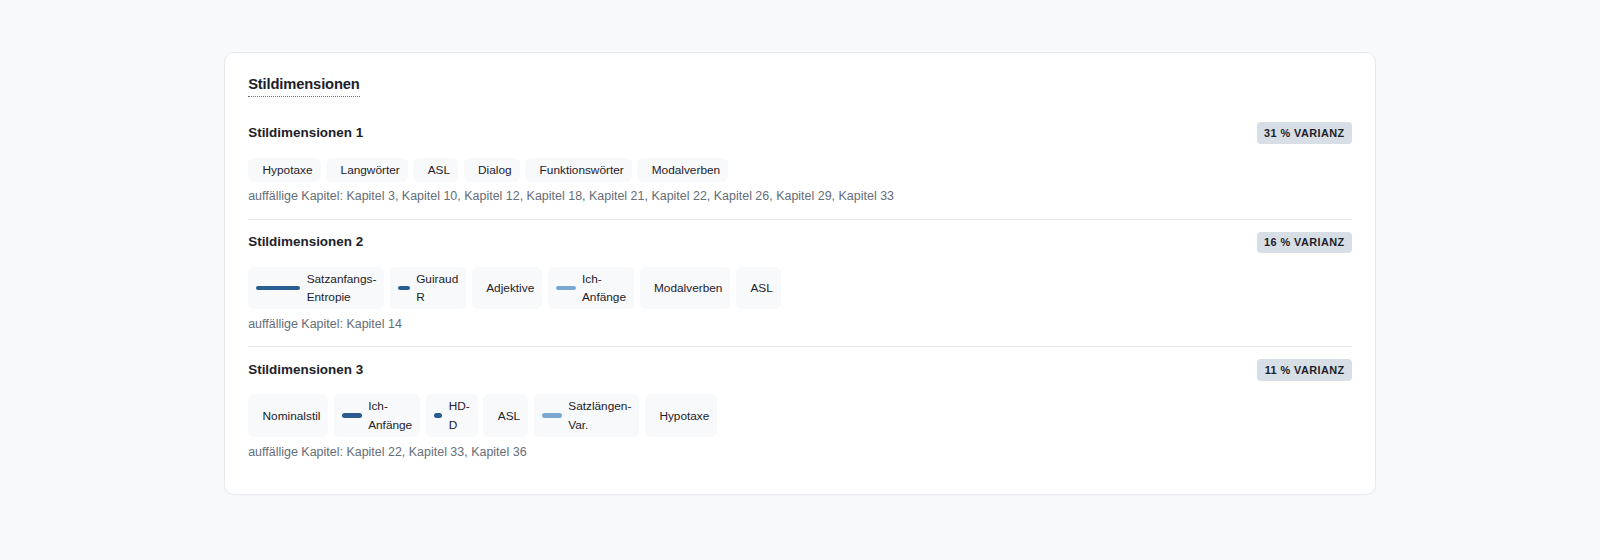
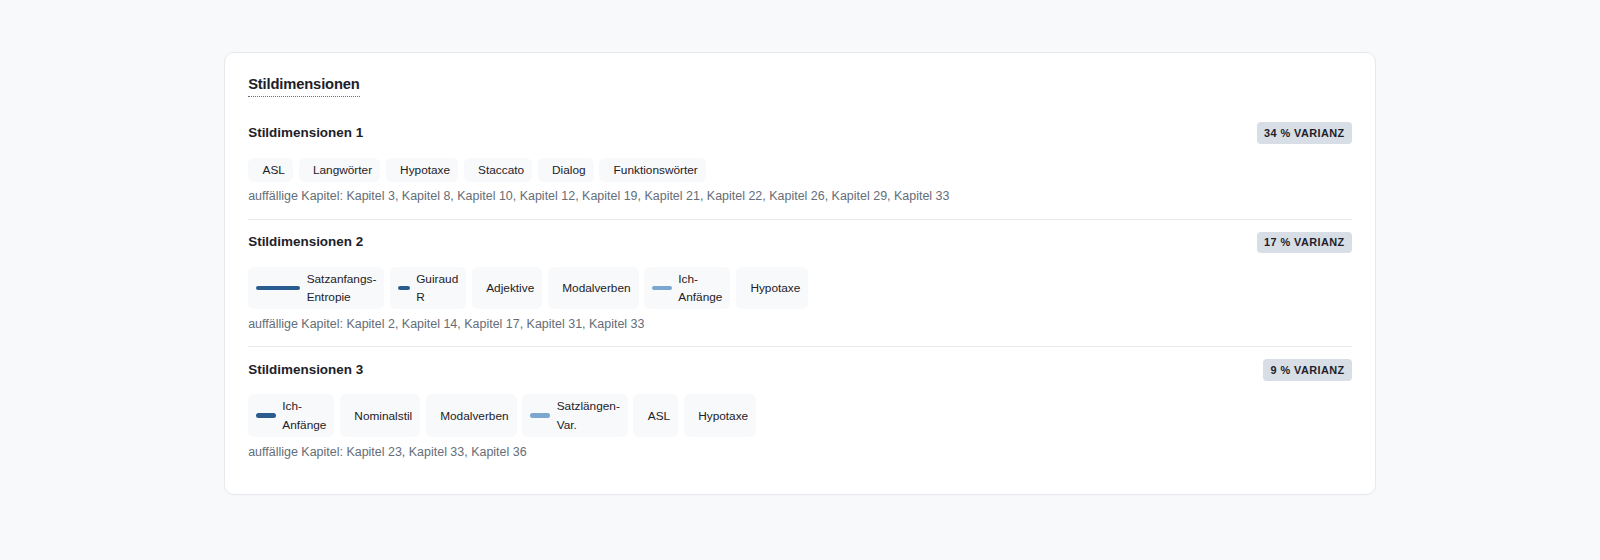
feat(release): v1.8.0 – core accuracy (segmentation, syllables, LIX), modular core, unified UI contract
- metric-affecting: abbreviation-aware shared sentence splitter (corpus and
  chapters), standard LIX long-word threshold (>6), syllable fixes (DE double
  vowels, EN silent-e/-le), INFLESZ 62.35
- structure: lixity/sentences.py, lixity/syllables.py, lixity/diversity.py;
  SentenceStats; analyzer 857 -> ~540 lines; one language profile dataclass
- UI: unified interaction contract ([role=button], one JS selector, focus ring);
  band rows clickable again
- docs: USAGE worked example recomputed (14/16 inside), STABILITY rows 21-26,
  AGENTS §3.4 interaction model, screenshots regenerated
- 170 tests green, ruff + mypy clean

diff --git a/docs/index.html b/docs/index.html
@@ -31,7 +31,7 @@
   "applicationCategory": "UtilitiesApplication",
   "applicationSubCategory": "Linguistic & Stylometric Analysis",
   "operatingSystem": "Linux, macOS, Windows",
-  "softwareVersion": "1.7.0",
+  "softwareVersion": "1.8.0",
   "isAccessibleForFree": true,
   "license": "https://github.com/mfahsold/lixity/blob/main/LICENSE",
   "codeRepository": "https://github.com/mfahsold/lixity",

diff --git a/src/lixity/__init__.py b/src/lixity/__init__.py
@@ -26,4 +26,4 @@ __all__ = [
     "StyleFingerprint",
 ]
 
-__version__ = "1.7.0"
+__version__ = "1.8.0"

diff --git a/docs/USAGE.md b/docs/USAGE.md
@@ -246,28 +246,28 @@ The repository ships a complete, reproducible example in `samples/`:
 
 | Feature | Fontane (median) | Corridor (±2σ) | Draft |
 | :--- | ---: | ---: | ---: |
-| ASL | 21,06 | 14,96 – 27,15 | 20,12 |
-| Staccato share | 16,87 % | 4,03 – 29,71 | 16,67 % |
-| Hypotaxis share | 29,41 % | 13,49 – 45,34 | 29,17 % |
-| Sentence-length CV | 0,80 | 0,60 – 0,99 | 0,68 |
-| Dialogue share | 58,31 % | 26,22 – 90,40 | 43,84 % |
-| Function-word share | 44,91 % | 42,08 – 47,74 | 47,64 % |
-| Perception filters | 0,85 | −0,39 – 2,09 | 0,00 |
-| Modals / passive (per 1,000) | 11,32 / 4,47 | 6,40 – 16,24 / 1,81 – 7,12 | 10,85 / 2,58 |
-| Nominalisations (per 1,000) | 14,77 | 8,34 – 21,20 | 18,09 |
-| Adjectives (per 1,000) | 21,52 | 14,10 – 28,94 | 17,05 |
-| Long words | 11,02 % | 8,53 – 13,51 | 8,62 % |
-| Starter entropy | 5,30 bit | 4,57 – 6,02 | 5,16 |
-| First-person starts | 7,55 % | 1,87 – 13,22 | 5,21 % |
-| Guiraud R | 18,08 | 14,28 – 21,87 | 14,91 |
+| ASL | 15,57 | 10,45 – 20,70 | 15,21 |
+| Staccato share | 31,53 % | 19,78 – 43,27 | 28,35 % |
+| Hypotaxis share | 19,13 % | 5,71 – 32,56 | 15,75 % |
+| Sentence-length CV | 0,87 | 0,71 – 1,04 | 0,83 |
+| Dialogue share | 58,44 % | 26,78 – 90,10 | 43,84 % |
+| Function-word share | 44,98 % | 42,41 – 47,56 | 47,64 % |
+| Perception filters | 0,86 | −0,34 – 2,07 | 0,00 |
+| Modals / passive (per 1,000) | 11,37 / 4,50 | 6,41 – 16,34 / 2,11 – 6,88 | 10,85 / 2,58 |
+| Nominalisations (per 1,000) | 14,94 | 8,63 – 21,25 | 18,09 |
+| Adjectives (per 1,000) | 21,18 | 14,41 – 27,95 | 17,05 |
+| Long words | 20,28 % | 15,52 – 25,04 | 17,09 % |
+| Starter entropy | 5,52 bit | 4,87 – 6,18 | 5,36 |
+| First-person starts | 6,57 % | 1,53 – 11,61 | 4,72 % |
+| Guiraud R | 18,11 | 14,61 – 21,62 | 14,91 |
 | HD-D | 0,9924 | 0,9900 – 0,9948 | 0,9898 |
 
-**15 of 16 features** land inside the corridor; only HD-D misses it by a
-hair (0,9898 vs. 0,9900). Three features (dialogue share, function-word
-share, long words) exist per chapter only — for the single-chapter draft they
-are measured on that chapter. The loop is always the same:
-`build` → write → `analyze` → compare → revise – no external style dogma,
-only the author's own distribution.
+**14 of 16 features** land inside the corridor; the two at its edge are the
+function-word share (+0,08 pp) and HD-D (−0,0002). Three features (dialogue
+share, function-word share, long words) exist per chapter only — for the
+single-chapter draft they are measured on that chapter. The loop is always the
+same: `build` → write → `analyze` → compare → revise – no external style
+dogma, only the author's own distribution.
 
 ## Work markers (editor-visible)
 

diff --git a/docs/AGENTS.md b/docs/AGENTS.md
@@ -36,7 +36,7 @@ from that style, controlled for measurement noise and multiple testing.
 ### 3.1 `analyze --json` (schema_version 2)
 
 ```json
-{"meta": {"tool": "lixity", "version": "1.7.0", "schema_version": 2, "language": "de"},
+{"meta": {"tool": "lixity", "version": "1.8.0", "schema_version": 2, "language": "de"},
  "metrics": {"raw_words": 55331, "asl": 9.63, "ttr": 0.1784, "guiraud_r": 41.11,
              "hd_d": 0.997, "mtld": 78.4, "mattr": 0.742, "maas_a2": 0.031,
              "flesch_de": 71.2, "flesch_variant": "Flesch Reading Ease (Amstad)",
